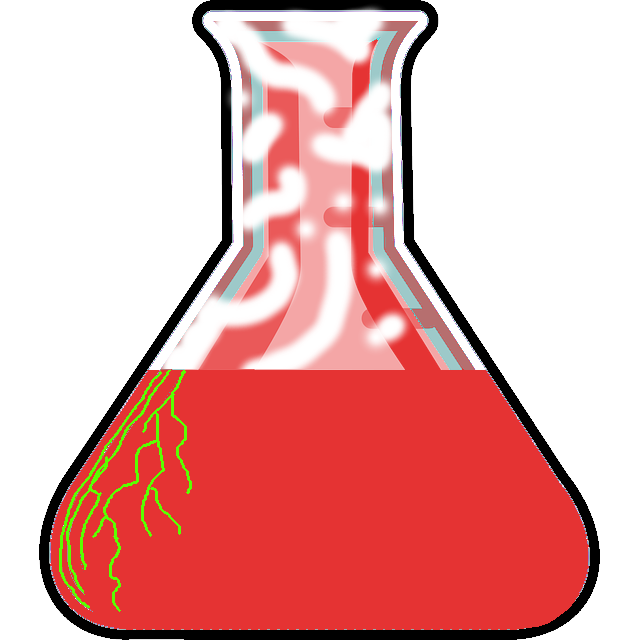
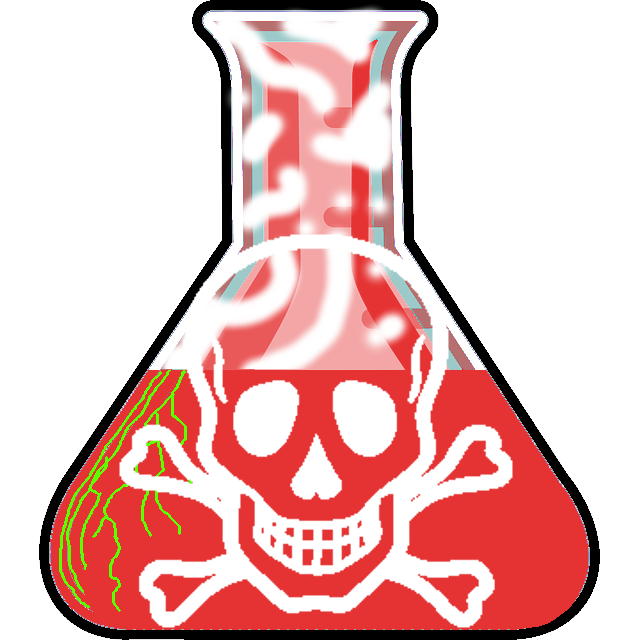
Added skull picture onto deadly node #14
Deadly Potion does not disappear now

Changed region(s): [[0.1875, 0.3438, 0.8125, 1.0], [0.3125, 0.4375, 0.3438, 0.4688]]

diff --git a/engine/pickableNode.py b/engine/pickableNode.py
@@ -71,6 +71,15 @@ class DeadlyPotion(PickableNode):
         o2.add_score(-1000)
         o2.die()
 
+
+    def collide(self,o2,side,other_side):
+        #side : 0-> haut (aiguilles d'une montre)
+        if isinstance(o2,Player):
+            if not(self.taken):
+                self.upon_colliding(o2)
+                #Does not Remove the Pickable
+                #self.vanish()
+
 """ Key class to show interactions between game and campaign"""
 
 class Key(PickableNode):
